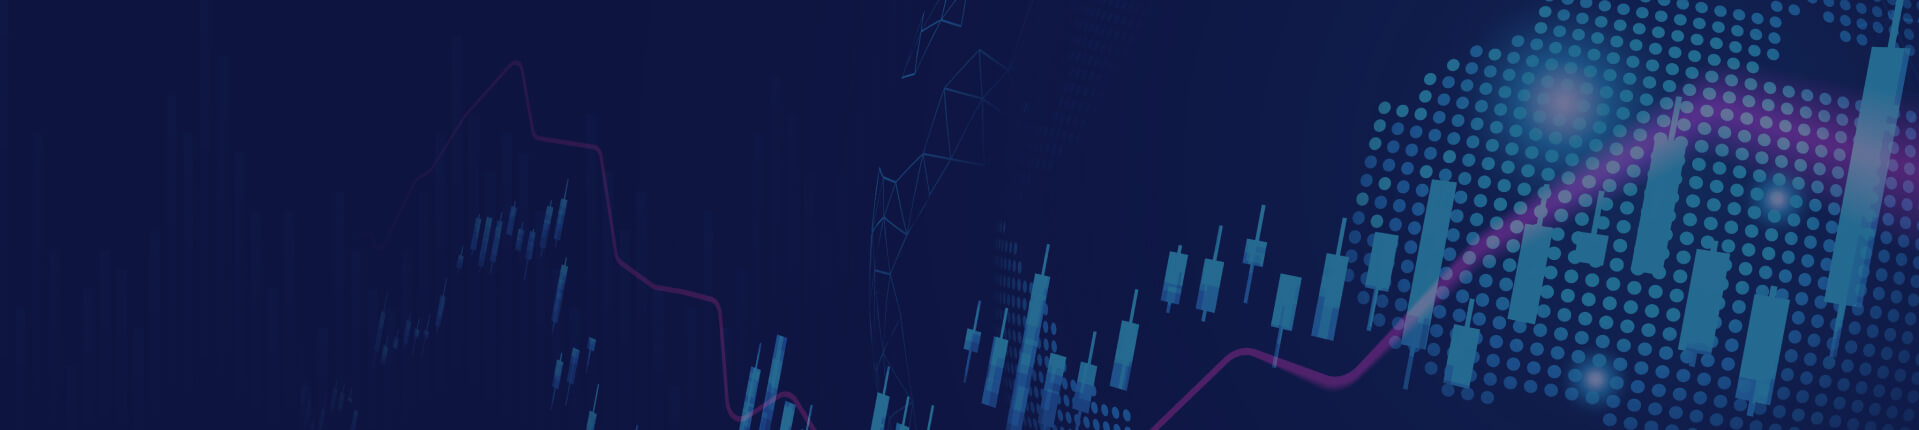
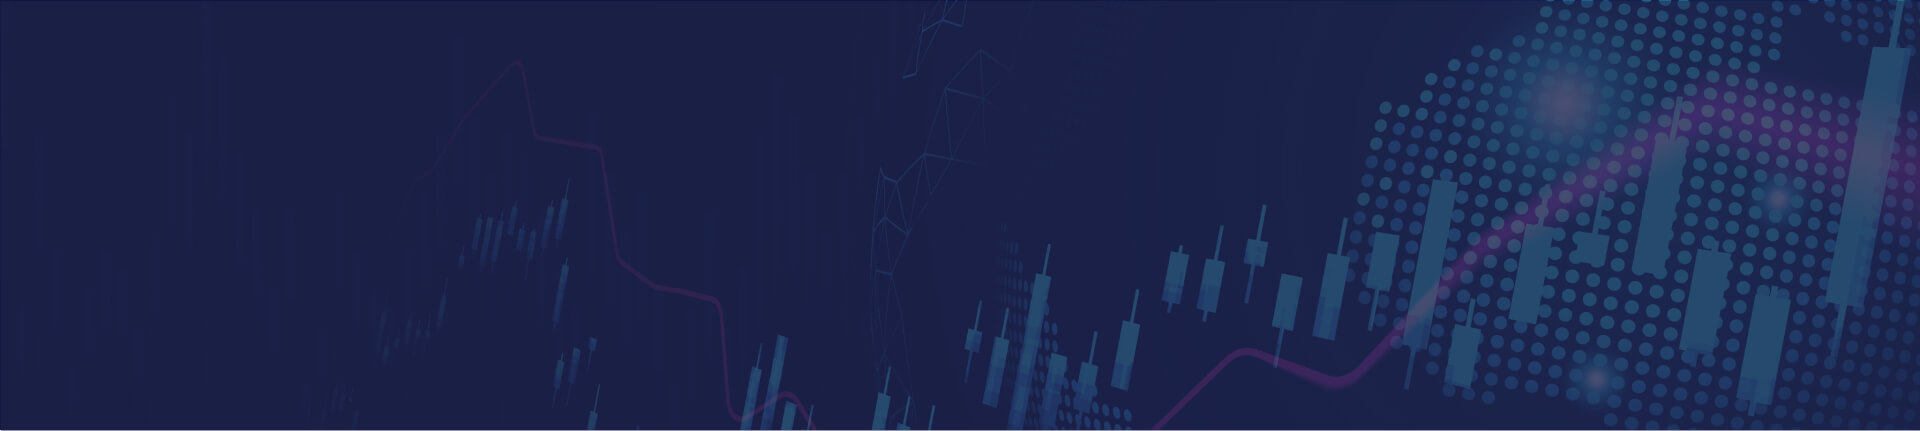
[shared, assets] some more changes

Changed region(s): [[0.0, 0.0, 1.0, 1.0], [0.6456, 0.8163, 0.6764, 0.8465]]

diff --git a/src/components/shared/form/button/Button.scss b/src/components/shared/form/button/Button.scss
@@ -68,7 +68,7 @@
   }
 
   &.disabled {
-    border-color: $dark-grey;
+    // border-color: $dark-grey;
     background: $grey;
     color: rgba(#000, 0.3);
 
@@ -79,6 +79,10 @@
         fill: rgba(#000, 0.3);
       }
     }
+  }
+
+  &.disabled.noBg {
+    border-color: $dark-grey;
   }
 
   a,

diff --git a/src/components/shared/sectionBg/SectionBg.scss b/src/components/shared/sectionBg/SectionBg.scss
@@ -9,12 +9,4 @@
   left: 0;
   top: 0;
   z-index: 0;
-
-  &:after {
-    content: '';
-    display: block;
-    width: 100%;
-    height: 100%;
-    background: rgba($dark-text, 0.5);
-  }
 }
